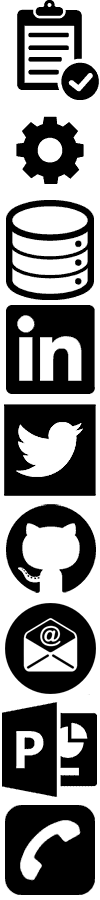
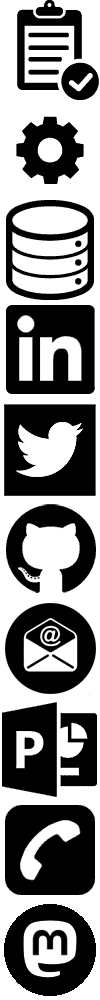
mastodon links

diff --git a/Personal Site/wwwroot/css/index.css b/Personal Site/wwwroot/css/index.css
@@ -97,6 +97,10 @@ h2 {
     background-position: 0px -225px;
 }
 
+.icon-mastodon {
+    background-position: 0px -250px;
+}
+
 #menu {
     text-align: center;
     position: fixed;
